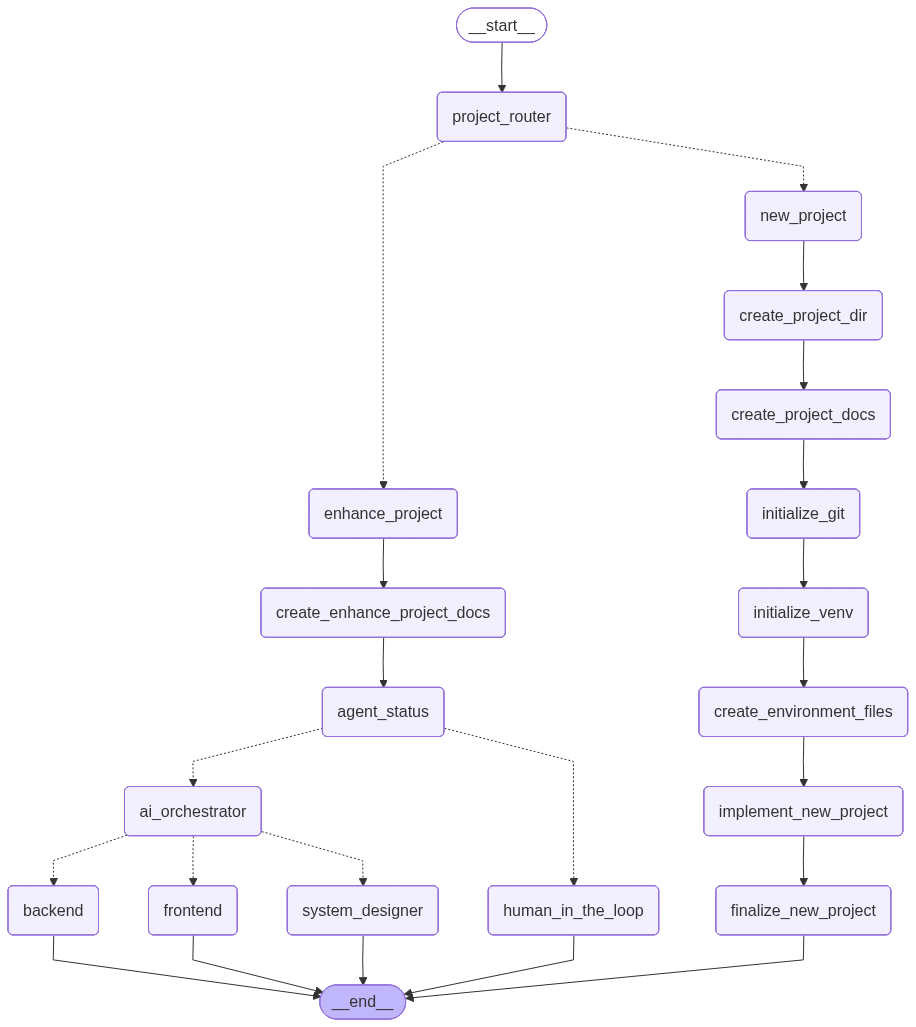
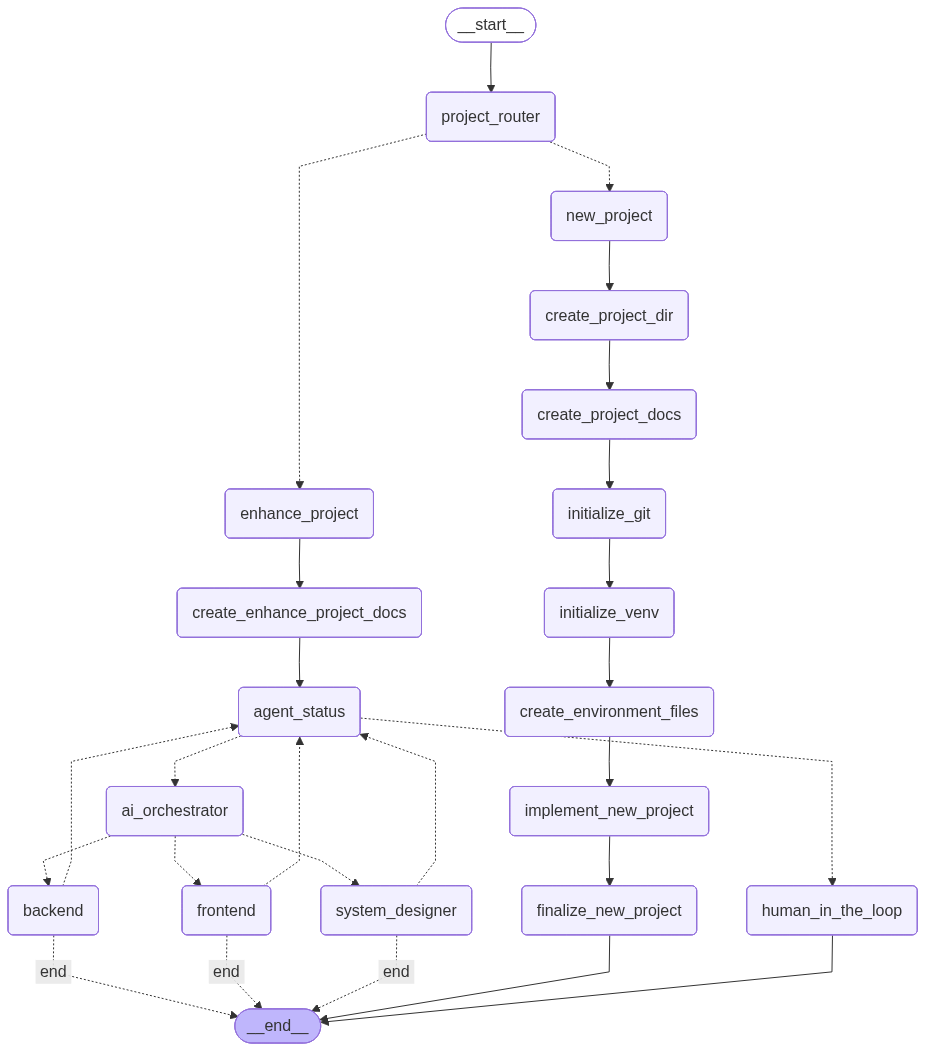
Add support for looping back to agent status in skill nodes and enhance CLI options
- Introduced `--react-to-agent-status` argument in CLI for skill nodes to loop back to agent status before ending.
- Updated README with usage instructions for the new CLI option.
- Enhanced skill nodes to return to agent status based on the new routing logic.
- Added tests to verify the new looping behavior for skill nodes.

diff --git a/graph/workflow.py b/graph/workflow.py
@@ -30,7 +30,7 @@ from .nodes import (
     ProjectRouterNode,
     SystemDesignerSkillNode,
 )
-from .state import AgentRoute, CodingState, SkillRoute, TaskStatus, TaskType
+from .state import AgentRoute, CodingState, SkillCompletionRoute, SkillRoute, TaskStatus, TaskType
 
 
 DEFAULT_PROJECT_ROUTER = "project_router"
@@ -68,6 +68,12 @@ def route_ai_orchestrator(state: CodingState) -> SkillRoute:
     """Return the skill node selected by ``AiOrchestratorNode``."""
 
     return state.get("skill_route", DEFAULT_SYSTEM_DESIGNER)
+
+
+def route_skill_completion(state: CodingState) -> SkillCompletionRoute:
+    """Return whether a skill node should end or recheck agent status."""
+
+    return state.get("skill_completion_route", "end")
 
 
 def create_coding_graph(speaker: CodexSpeaker | None = None, config_path: Path | None = None):
@@ -149,9 +155,13 @@ def create_coding_graph(speaker: CodexSpeaker | None = None, config_path: Path |
             DEFAULT_SYSTEM_DESIGNER: DEFAULT_SYSTEM_DESIGNER,
         },
     )
-    graph.add_edge(DEFAULT_BACKEND, END)
-    graph.add_edge(DEFAULT_FRONTEND, END)
-    graph.add_edge(DEFAULT_SYSTEM_DESIGNER, END)
+    skill_completion_edges = {
+        DEFAULT_AGENT_STATUS: DEFAULT_AGENT_STATUS,
+        "end": END,
+    }
+    graph.add_conditional_edges(DEFAULT_BACKEND, route_skill_completion, skill_completion_edges)
+    graph.add_conditional_edges(DEFAULT_FRONTEND, route_skill_completion, skill_completion_edges)
+    graph.add_conditional_edges(DEFAULT_SYSTEM_DESIGNER, route_skill_completion, skill_completion_edges)
     graph.add_edge(DEFAULT_HUMAN_IN_THE_LOOP, END)
     return graph.compile()
 
@@ -165,6 +175,7 @@ def run_coding_graph(
     project_name: str | None = None,
     needs_human_review: bool = False,
     requested_skill: SkillRoute | None = None,
+    react_to_agent_status: bool = False,
     speaker: CodexSpeaker | None = None,
     config_path: Path | None = None,
 ) -> CodingState:
@@ -180,6 +191,8 @@ def run_coding_graph(
         project_name: Optional folder name for first-task project setup.
         needs_human_review: Whether enhance work should pause for human input.
         requested_skill: Optional explicit skill route for AI orchestration.
+        react_to_agent_status: Whether a skill node should loop once back to
+            ``agent_status`` before finishing.
         speaker: Optional Codex speaker implementation, mostly for tests.
     """
 
@@ -199,5 +212,6 @@ def run_coding_graph(
             "full_access": full_access,
             "needs_human_review": needs_human_review,
             "requested_skill": requested_skill,
+            "react_to_agent_status": react_to_agent_status,
         }
     )

diff --git a/graph/nodes.py b/graph/nodes.py
@@ -386,6 +386,7 @@ class BackendSkillNode:
         logger.info("backend: running")
         logger.info("backend: ready to handle Current_Task.md")
         return {
+            **skill_completion_state(state),
             "project_setup": append_setup_step(state, "backend"),
             "response": render_prompt("responses.backend_ready"),
         }
@@ -399,6 +400,7 @@ class FrontendSkillNode:
         logger.info("frontend: running")
         logger.info("frontend: ready to handle Current_Task.md")
         return {
+            **skill_completion_state(state),
             "project_setup": append_setup_step(state, "frontend"),
             "response": render_prompt("responses.frontend_ready"),
         }
@@ -412,6 +414,7 @@ class SystemDesignerSkillNode:
         logger.info("system_designer: running")
         logger.info("system_designer: ready to handle Current_Task.md")
         return {
+            **skill_completion_state(state),
             "project_setup": append_setup_step(state, "system_designer"),
             "response": render_prompt("responses.system_designer_ready"),
         }
@@ -567,6 +570,26 @@ def skill_route_from_state(state: CodingState) -> str:
     if any(term in task_md for term in design_terms):
         return "system_designer"
     return "system_designer"
+
+
+def skill_completion_route_from_state(state: CodingState) -> str:
+    """Return whether a skill node should end or return to agent status."""
+
+    if state.get("react_to_agent_status", False) and not state.get("skill_rechecked_agent_status", False):
+        return "agent_status"
+    return "end"
+
+
+def skill_completion_state(state: CodingState) -> CodingState:
+    """Build state returned by skill nodes for post-skill routing."""
+
+    completion_route = skill_completion_route_from_state(state)
+    logger.info("skill_completion: selected route %s", completion_route)
+    return {
+        "skill_completion_route": completion_route,
+        "skill_rechecked_agent_status": state.get("skill_rechecked_agent_status", False)
+        or completion_route == "agent_status",
+    }
 
 
 def new_task_description_from_task_md(task_md: str) -> str:

diff --git a/tests/test_graph_workflow.py b/tests/test_graph_workflow.py
@@ -191,6 +191,39 @@ class CodingGraphTests(unittest.TestCase):
         self.assertEqual(result["response"], "Frontend skill is ready to handle Current_Task.md.")
         self.assertEqual(len(speaker.calls), 1)
 
+    def test_skill_node_can_loop_once_back_to_agent_status(self) -> None:
+        speaker = FakeSpeaker()
+        temp_dir = tempfile.TemporaryDirectory()
+        self.addCleanup(temp_dir.cleanup)
+        project_dir = Path(temp_dir.name) / "demo"
+        project_dir.mkdir()
+
+        result = run_coding_graph(
+            "# Task\nAdd backend endpoint",
+            project_dir=project_dir,
+            requested_skill="backend",
+            react_to_agent_status=True,
+            speaker=speaker,
+        )
+
+        self.assertEqual(
+            result["project_setup"],
+            [
+                "enhance_project",
+                "create_enhance_project_docs",
+                "agent_status",
+                "ai_orchestrator",
+                "backend",
+                "agent_status",
+                "ai_orchestrator",
+                "backend",
+            ],
+        )
+        self.assertEqual(result["skill_completion_route"], "end")
+        self.assertTrue(result["skill_rechecked_agent_status"])
+        self.assertEqual(result["response"], "Backend skill is ready to handle Current_Task.md.")
+        self.assertEqual(len(speaker.calls), 1)
+
     def test_ai_orchestrator_defaults_unclear_tasks_to_system_designer(self) -> None:
         speaker = FakeSpeaker()
         temp_dir = tempfile.TemporaryDirectory()

diff --git a/graph/__init__.py b/graph/__init__.py
@@ -26,8 +26,15 @@ from .nodes import (
     build_new_project_prompt,
     task_type_for_status,
 )
-from .state import AgentRoute, CodingState, SkillRoute, TaskStatus, TaskType
-from .workflow import create_coding_graph, route_agent_status, route_ai_orchestrator, route_project_task, run_coding_graph
+from .state import AgentRoute, CodingState, SkillCompletionRoute, SkillRoute, TaskStatus, TaskType
+from .workflow import (
+    create_coding_graph,
+    route_agent_status,
+    route_ai_orchestrator,
+    route_project_task,
+    route_skill_completion,
+    run_coding_graph,
+)
 
 __all__ = [
     "AgentRoute",
@@ -49,6 +56,7 @@ __all__ = [
     "NewProjectNode",
     "ProjectRouterNode",
     "SkillRoute",
+    "SkillCompletionRoute",
     "SystemDesignerSkillNode",
     "TaskStatus",
     "TaskType",
@@ -58,6 +66,7 @@ __all__ = [
     "route_agent_status",
     "route_ai_orchestrator",
     "route_project_task",
+    "route_skill_completion",
     "run_coding_graph",
     "task_type_for_status",
 ]

diff --git a/graph/cli.py b/graph/cli.py
@@ -40,6 +40,11 @@ def build_parser() -> argparse.ArgumentParser:
         choices=["backend", "frontend", "system_designer"],
         help="Force the AI orchestrator to route to a specific skill node.",
     )
+    parser.add_argument(
+        "--react-to-agent-status",
+        action="store_true",
+        help="After a skill node runs, loop once back to agent_status before ending.",
+    )
     parser.add_argument("--config", type=Path, help="Path to an alternate config.yml file.")
     return parser
 
@@ -58,6 +63,7 @@ def main() -> None:
         args.project_name,
         args.needs_human_review,
         args.requested_skill,
+        args.react_to_agent_status,
         config_path=args.config,
     )
     print(result.get("response", ""))

diff --git a/graph/state.py b/graph/state.py
@@ -18,6 +18,7 @@ TaskStatus = Literal["new", "enhance"]
 TaskType: TypeAlias = str
 AgentRoute = Literal["ai_orchestrator", "human_in_the_loop"]
 SkillRoute = Literal["backend", "frontend", "system_designer"]
+SkillCompletionRoute = Literal["agent_status", "end"]
 
 
 class CodingState(TypedDict, total=False):
@@ -39,5 +40,8 @@ class CodingState(TypedDict, total=False):
     agent_route: AgentRoute
     requested_skill: SkillRoute
     skill_route: SkillRoute
+    react_to_agent_status: bool
+    skill_completion_route: SkillCompletionRoute
+    skill_rechecked_agent_status: bool
     needs_human_review: bool
     response: str

diff --git a/README.md b/README.md
@@ -409,6 +409,7 @@ enhance_project
           -> backend
           -> frontend
           -> system_designer
+          -> END or agent_status
 ```
 
 `create_enhance_project_docs` requires an existing project directory. It seeds
@@ -443,7 +444,11 @@ system_designer  architecture, design, system, plan, schema, workflow, or unclea
 ```
 
 The skill nodes are placeholders right now. They mark the selected lane in
-graph state and are ready for real Codex-backed skill behavior later.
+graph state and are ready for real Codex-backed skill behavior later. By
+default, each skill node ends the graph after it runs. When
+`react_to_agent_status=True` or `--react-to-agent-status` is set, the selected
+skill node can route once back to `agent_status` before finishing. The one-time
+guard prevents an accidental endless loop.
 
 Graph prompt text is centralized in `graph/prompts.json`. Nodes load templates
 through `graph.prompt_catalog.render_prompt()`, so prompt wording can be tuned
@@ -517,6 +522,18 @@ Add a FastAPI backend skeleton for the Andalusia call center chatbot." \
 The enhance path runs `create_enhance_project_docs` before routing to the skill
 node. That node asks Codex to inspect the project, read `Done_AI_Tasks.md`, and
 write the prepared implementation handoff to `Current_Task.md`.
+
+To let the selected skill node loop once back to `agent_status` before ending,
+add `--react-to-agent-status`:
+
+```bash
+.venv/bin/python -m graph.cli "# Task
+Add a FastAPI backend skeleton for the Andalusia call center chatbot." \
+  --task-status enhance \
+  --project-dir "/home/Yasser.hamed/Downloads/andalusia-chatbot" \
+  --requested-skill backend \
+  --react-to-agent-status
+```
 
 You can force a skill route:
 
